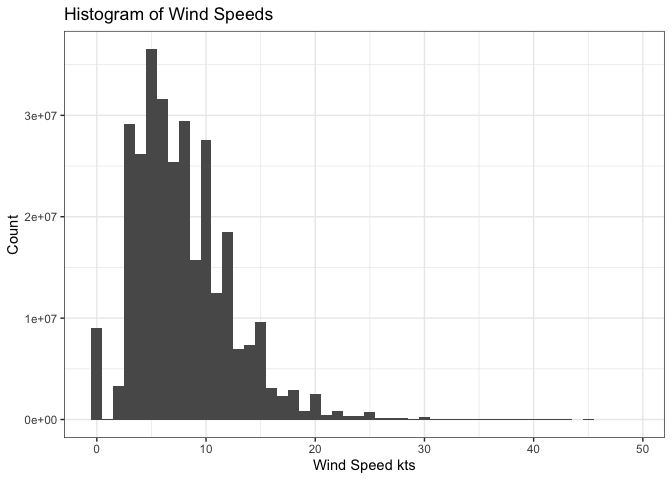
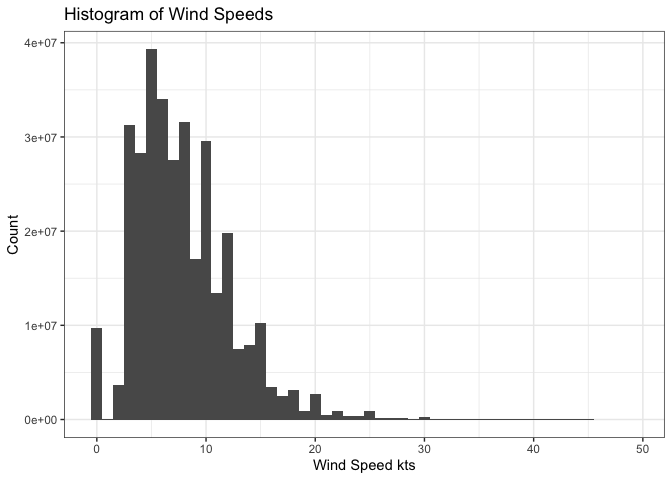
Updated summary statistics after bugfix in histogram processor. No significant change in the result.

diff --git a/output/Statistics.md b/output/Statistics.md
@@ -2,7 +2,7 @@ For now, this is just same sample analysis as a framework.
 
 # Some Summary Statistics
 
-We have loaded 13238063 data lines for 711 aerodromes for configuration
+We have loaded 139376801 data lines for 713 aerodromes for configuration
 full_set.
 
 ## Distribution of Wind Speeds
